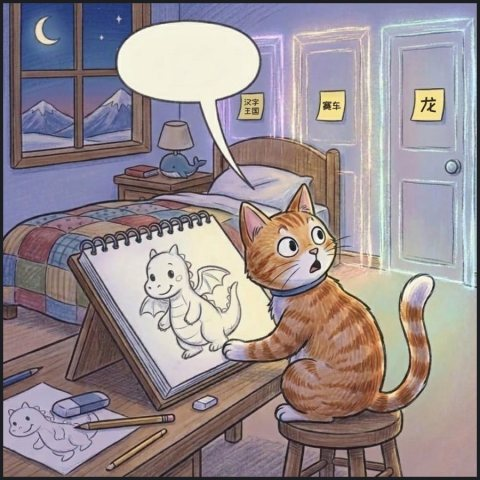
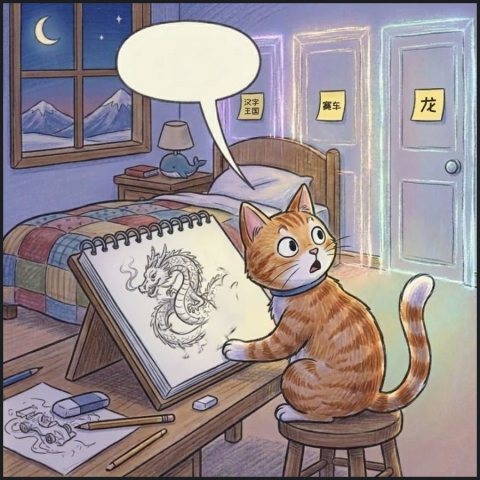
Ep6 frames 1-2: new dragon sketch, race car on table
Claude-Session: https://claude.ai/code/session_01NreAqm5NtqDWekSoZfY2fL

Changed region(s): [[0.25, 0.5, 0.5, 0.75], [0.0, 0.8125, 0.2188, 0.9688], [0.1875, 0.8438, 0.2188, 0.875]]

diff --git a/ep6/index.html b/ep6/index.html
@@ -190,14 +190,14 @@ body.show-en .story{gap:2px}
   <section class="panel">
     <div class="story"><p data-line="晚上|，|小懒猫|在|房间|里|画画|。" data-en="In the evening, Little Lazy Cat was drawing in his room."></p><p data-line="小林|叫|他|吃饭|，" data-en="Xiao Lin called him for dinner,"></p><p data-line="可|他|太|入迷|了|，" data-en="but he was too absorbed,"></p><p data-line="已经|沉浸|在|自己的|幻想世界|里|，" data-en="already lost in his own world of imagination,"></p><p data-line="一点儿|也|没|听见|。" data-en="and didn't hear a thing."></p></div>
     <figure>
-      <img src="sq1.jpg?v=2" alt="The cat sits on a stool drawing a little dragon on a big sketchpad, while a voice calls from the bedroom door" width="900" height="900">
+      <img src="sq1.jpg?v=3" alt="The cat sits on a stool drawing a little dragon on a big sketchpad, while a voice calls from the bedroom door" width="900" height="900">
       <button class="bub" data-who="penguin" data-line="猫猫|，|吃饭|了|！" data-en="Kitty, dinner's ready!" data-show="猫猫，/吃饭了！" style="left:63.3%;top:11.9%;width:21.3%;height:11.8%;font-size:4.4cqw;line-height:1.25"></button>
     </figure>
   </section>
   <section class="panel">
     <div class="story"><p data-line="忽然|，|墙上|亮了起来|，" data-en="Suddenly, the wall lit up,"></p><p data-line="出现了|三扇门|！" data-en="and three doors appeared!"></p><p data-line="每扇门|上|都|贴着|字|。" data-en="Each door had a word stuck on it."></p></div>
     <figure>
-      <img src="sq2.jpg?v=1" alt="Three glowing doors appear on the bedroom wall, each with a note; the cat turns round in surprise" width="900" height="900">
+      <img src="sq2.jpg?v=2" alt="Three glowing doors appear on the bedroom wall, each with a note; the cat turns round in surprise" width="900" height="900">
       <button class="bub" data-who="cat" data-line="咦|？|这|是|什么|？" data-en="Huh? What's this?" data-show="咦？/这是什么？" style="left:28.2%;top:5.8%;width:21.9%;height:14.1%;font-size:4.0cqw;line-height:1.25"></button>
     </figure>
   </section>

diff --git a/index.html b/index.html
@@ -76,7 +76,7 @@ h1{font-family:var(--display);font-weight:400;font-size:clamp(2.4rem,10vw,3.4rem
       <div class="info"><div class="num">Episode 5</div><div class="ttl">乱七八糟</div><div class="idiom"><b>乱七八糟</b><span>luàn qī bā zāo · a total mess</span></div></div>
     </a>
     <a class="ep" href="ep6/">
-      <img src="ep6.jpg" alt="">
+      <img src="ep6.jpg?v=2" alt="">
       <div class="info"><div class="num">Episode 6</div><div class="ttl">幻想世界（一）</div><div class="idiom"><b>不知不觉</b><span>bù zhī bù jué · without noticing</span></div></div>
     </a>
     <div class="soon">第七集<br>快来了……</div>
